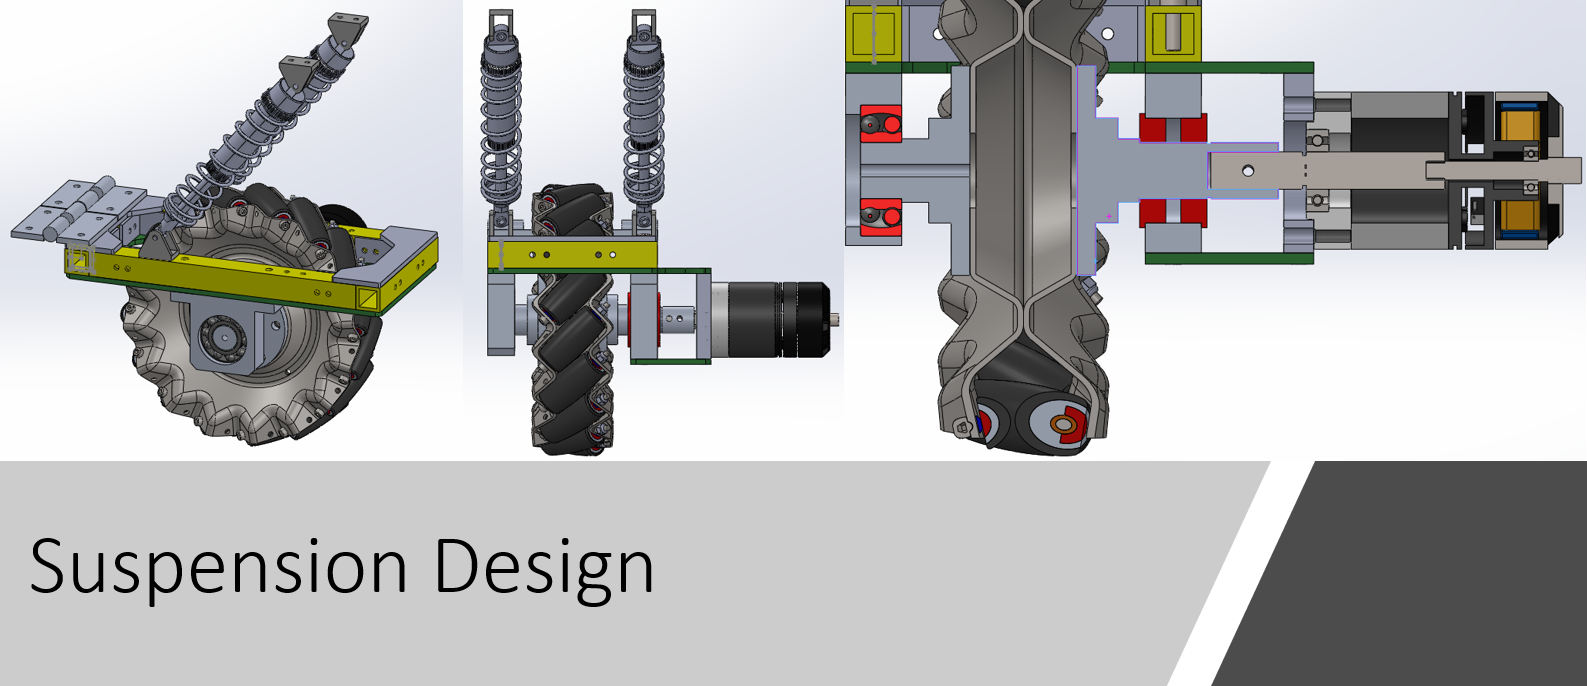
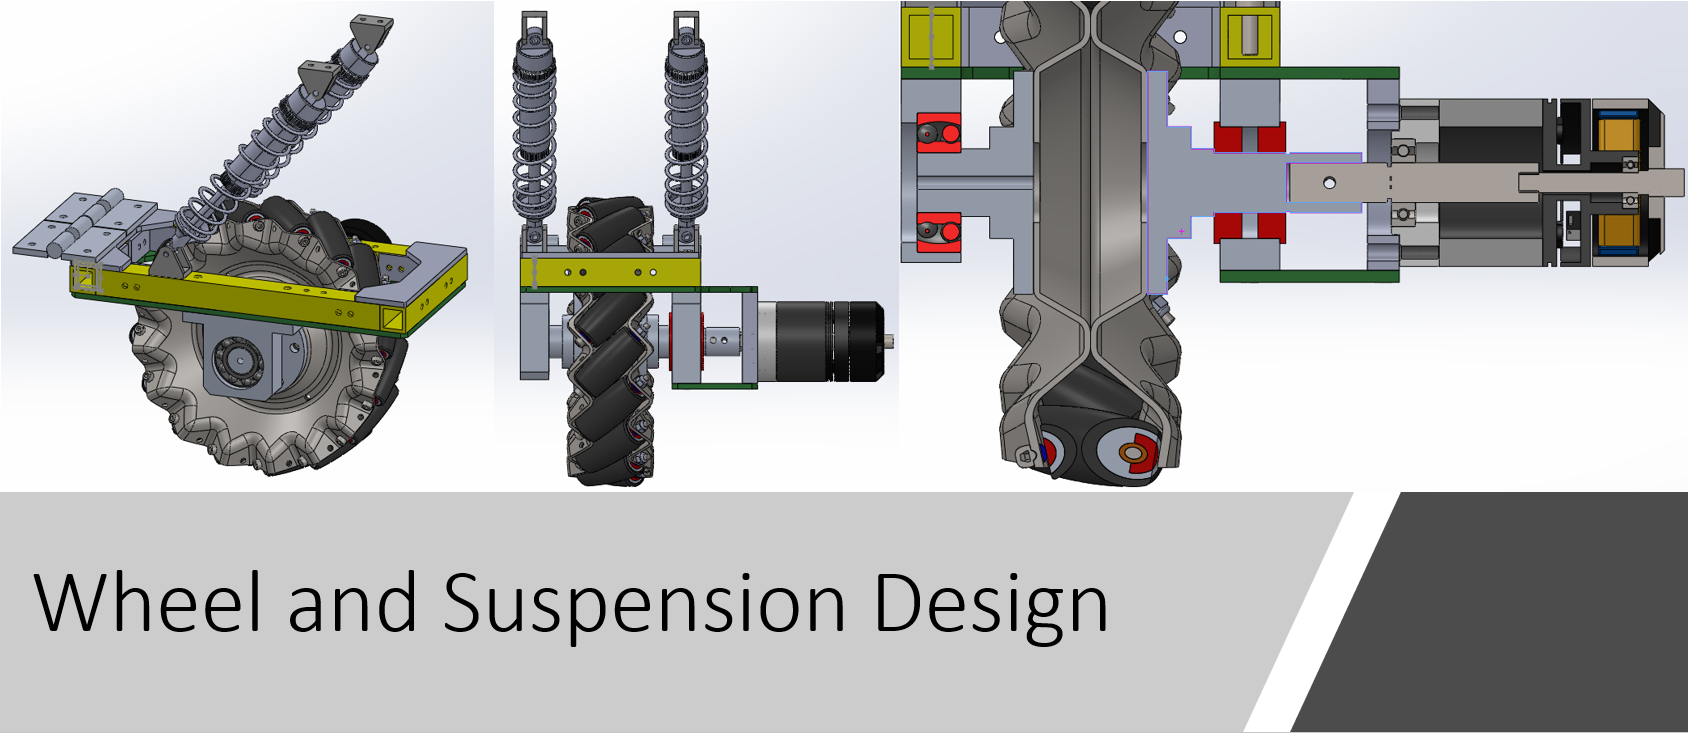
refined the content

diff --git a/docs/mechanical/infantry_robot.md b/docs/mechanical/infantry_robot.md
@@ -9,6 +9,7 @@ nav_order: 1
 Here we present our past Standard Robot's designs and review some critical strcuture designs. 
 
 ## Standard Robot Building Parameters
+
 <!-- table -->
 | Item | Limit | Remarks|
 | ------------- | ------------- | ------------- |
@@ -24,10 +25,11 @@ Here we present our past Standard Robot's designs and review some critical strcu
 ## 3rd Generation
 <!-- pictures -->
 ![img](pictures/standard_robot/standard_3rd_iter_cad.png)
+
 <!-- table -->
 | Item | Features | Description|
 | ------------- | ------------- | ------------- |
-| Built date | 2022 | RMUL |
+| Built Date | 2022 | RMUL |
 | Chassis | four-Wheel mecanum drive | Powered by [M3508 Motors](https://github.com/RoboMaster-Club/PurdueRM-Wiki/blob/gh-pages/docs/control/Useful%20Documents/Devices%20%26%20Datasheets.md)|
 | Suspension | Independent suspension | - |
 | Gimbal | Two-axis gimbal | Powered by GM6020 |
@@ -35,16 +37,18 @@ Here we present our past Standard Robot's designs and review some critical strcu
 | Shooting | Two drone propeller motors | Side by side flywheels |
 | Materials | Fiberglass, Aluminum | - |
 
-## Actual Robot
+### Actual Robot
 ![img](pictures/standard_robot/standard_3rd_iter_actual.jpg)
 
 ### Chassis
 <!-- pictures -->
 ![img](pictures/standard_robot/standard_3rd_iter_chassis.png)
+This is a brand-new chassis comparing to the 1st and 2nd gen Standards. We designed a structural frame by using 15x15x2 mm aluminum tubes. Instead of welding them together, we chosen to design some "L" and "T" shape fiberglass plates to connect all the tubes. 
 
-### Suspension
+### Wheel and Suspension
 <!-- pictures -->
 ![img](pictures/standard_robot/standard_3rd_iter_suspension.png)
+We gave up the four-bar linkage suspension system because the manufacturing cost was high, and it wasn't easy to fix when some parts failed. Therefore, we designed a two-side supporting wheel and suspension system. A Mecanum wheel is supported and connected in this system by a hub on each side, like a sandwich. Bearings support the hub on each side. Two flange deep-groove ball bearings support the side connected to the motor. To ensure the bearing on both sides is coaxial, a self-aligning ball bearing is placed on another side to support the hub. 
 
 ## 2nd Generation
 
@@ -52,10 +56,11 @@ Here we present our past Standard Robot's designs and review some critical strcu
 ## 1st Generation
 <!-- pictures -->
 ![img](pictures/standard_robot/standard_1st_iter.png)
+
 <!-- table -->
 | Item | Features | Description|
 | ------------- | ------------- | ------------- |
-| Built date | 2019 | RMUC |
+| Built Date | 2019 | RMUC |
 | Chassis | four-Wheel mecanum drive | Powered by [M3508 Motors](https://github.com/RoboMaster-Club/PurdueRM-Wiki/blob/gh-pages/docs/control/Useful%20Documents/Devices%20%26%20Datasheets.md)|
 | Suspension | Independent suspension | - |
 | Gimbal | Two-axis gimbal | Powered by RM6025 |
@@ -68,12 +73,11 @@ Here we present our past Standard Robot's designs and review some critical strcu
 
 ### Chassis
 <!-- pictures -->
-Chassis
 ![img](pictures/standard_robot/standard_robot_chassis01.png) 
 
 Couple large carbon-fiber sheets are supported by a welded stainless-steel frame. A T-shape bumper front of the robot chassis to protect suspension from the collsion. Four vertical standoff are mounted on the bottom plate and top plate of the chassis in order to solidly support the suspension system. 
 
-### Suspension
+### Wheel and Suspension
 <!-- pictures -->
 ![img](pictures/standard_robot/standard_suspension_design.png) 
 

diff --git a/docs/mechanical/mechanical.md b/docs/mechanical/mechanical.md
@@ -7,18 +7,9 @@ has_children: true
 
 # Mechanical Team
 
-<!-- The mechanical team is the backbone of our club. With over 30 members, mechanical team design, prototype and manufacture all robots. Using Solidworks, members design all mechanical parts and combine electrical parts into digital assembly that provide a platform for all other teams to perform their magic. Our ultimate goal is for members to design for manufacturing. As we utilize different manufacturing methods including 3D printing, CNC milling, Water-jet cutting, members not only gain knowledge on how to operate the machines outside of classroom, but also improve their ability to designing CAD and prepare themselves to become better engineers.
+The mechanical team is the backbone of our club. With over 30 members, mechanical team design, prototype and manufacture all robots. Using Solidworks, members design all mechanical parts and combine electrical parts into digital assembly that provide a platform for all other teams to perform their magic. Our ultimate goal is for members to design for manufacturing. As we utilize different manufacturing methods including 3D printing, CNC milling, Water-jet cutting, members not only gain knowledge on how to operate the machines outside of classroom, but also improve their ability to designing CAD and prepare themselves to become better engineers.
 
-Members will also learn to design an efficient manufacturing process and perform basic failure mode analysis to prevent potential hazards and malfunctions. -->
-<!-- ## Contents
-- [Robot Design]
-    - Infantry Robot
-    - Hero Robot
-    - Engineering Robot
-- [Design Library]
-    - LINKable Part Community
-    - Misumi -->
-Here we are going to show you robot design specifications and review our past robot design. 
+Members will also learn to design an efficient manufacturing process and perform basic failure mode analysis to prevent potential hazards and malfunctions.
 
 ## Design Tool
 - SolidWorks
